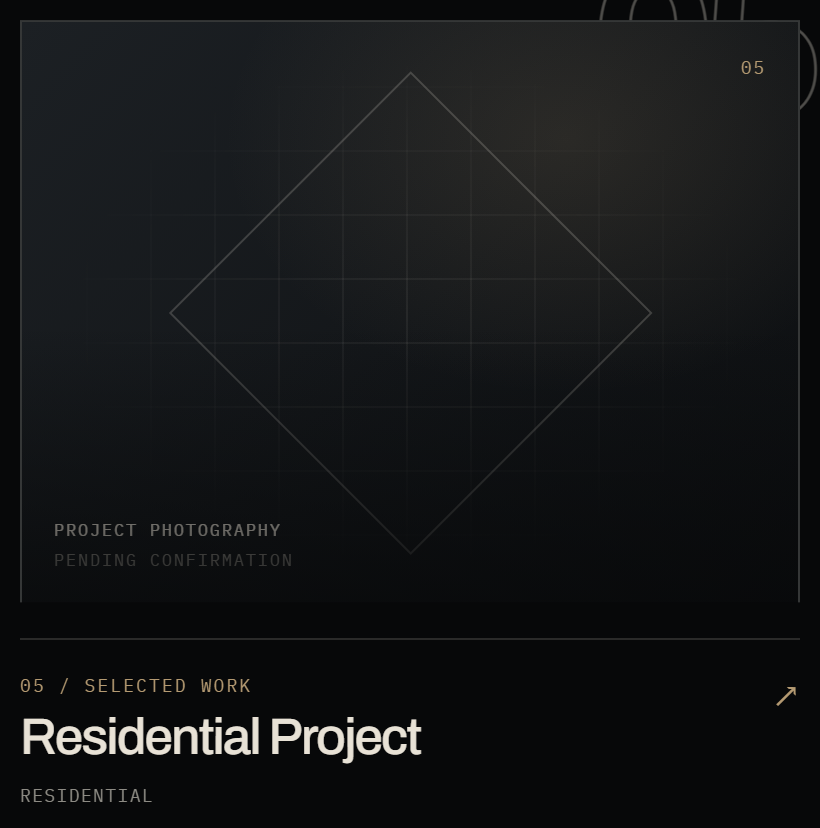
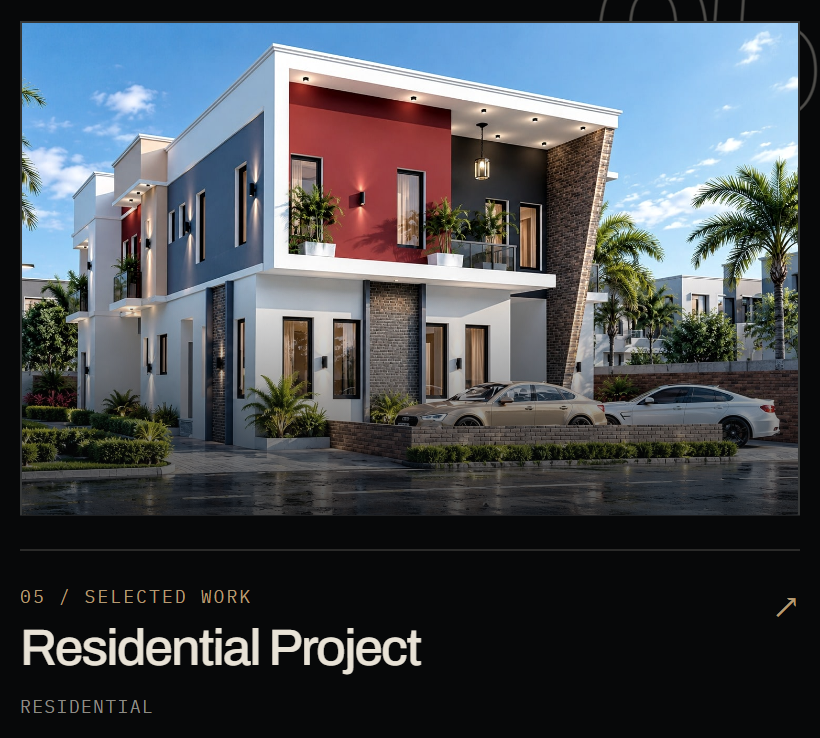
chore: preserve approved website state before CMS integration

diff --git a/about.html b/about.html
@@ -11,6 +11,10 @@
     <link rel="preconnect" href="https://fonts.gstatic.com" crossorigin>
     <link href="https://fonts.googleapis.com/css2?family=Archivo:wght@400;500;600;700&amp;family=Cormorant+Garamond:ital,wght@0,400;0,500;1,400;1,500&amp;family=IBM+Plex+Mono:wght@400;500&amp;family=Inter:wght@300;400;500&amp;display=swap" rel="stylesheet">
 
+    <link rel="icon" href="images/favicon/favicon.ico" sizes="any">
+    <link rel="icon" type="image/png" sizes="32x32" href="images/favicon/favicon-32x32.png">
+    <link rel="icon" type="image/png" sizes="16x16" href="images/favicon/favicon-16x16.png">
+    <link rel="apple-touch-icon" sizes="180x180" href="images/favicon/apple-touch-icon.png">
     <link rel="stylesheet" href="css/style.css">
 </head>
 <body>
@@ -58,13 +62,12 @@
         <section class="about-story section" aria-labelledby="about-story-heading">
             <div class="container about-story-grid">
                 <div class="about-media" data-reveal>
-                    <div class="media-placeholder" aria-hidden="true">
-                        <span class="media-placeholder-index">02</span>
-                        <div class="media-placeholder-label">
-                            <span class="media-placeholder-kicker">Studio photography</span>
-                            <span>To be confirmed</span>
-                        </div>
-                    </div>
+                    <img src="images/approach-workstation.jpg"
+                         alt="Architectural workstation with a large monitor showing a 3D building model and technical floor plans"
+                         width="1600"
+                         height="2000"
+                         loading="lazy"
+                         decoding="async">
                 </div>
                 <div class="about-copy" data-reveal-group>
                     <div data-reveal>

diff --git a/contact.html b/contact.html
@@ -11,6 +11,10 @@
     <link rel="preconnect" href="https://fonts.gstatic.com" crossorigin>
     <link href="https://fonts.googleapis.com/css2?family=Archivo:wght@400;500;600;700&amp;family=Cormorant+Garamond:ital,wght@0,400;0,500;1,400;1,500&amp;family=IBM+Plex+Mono:wght@400;500&amp;family=Inter:wght@300;400;500&amp;display=swap" rel="stylesheet">
 
+    <link rel="icon" href="images/favicon/favicon.ico" sizes="any">
+    <link rel="icon" type="image/png" sizes="32x32" href="images/favicon/favicon-32x32.png">
+    <link rel="icon" type="image/png" sizes="16x16" href="images/favicon/favicon-16x16.png">
+    <link rel="apple-touch-icon" sizes="180x180" href="images/favicon/apple-touch-icon.png">
     <link rel="stylesheet" href="css/style.css">
 </head>
 <body>

diff --git a/index.html b/index.html
@@ -11,6 +11,10 @@
     <link rel="preconnect" href="https://fonts.gstatic.com" crossorigin>
     <link href="https://fonts.googleapis.com/css2?family=Archivo:wght@400;500;600;700&amp;family=Cormorant+Garamond:ital,wght@0,400;0,500;1,400;1,500&amp;family=IBM+Plex+Mono:wght@400;500&amp;family=Inter:wght@300;400;500&amp;display=swap" rel="stylesheet">
 
+    <link rel="icon" href="images/favicon/favicon.ico" sizes="any">
+    <link rel="icon" type="image/png" sizes="32x32" href="images/favicon/favicon-32x32.png">
+    <link rel="icon" type="image/png" sizes="16x16" href="images/favicon/favicon-16x16.png">
+    <link rel="apple-touch-icon" sizes="180x180" href="images/favicon/apple-touch-icon.png">
     <link rel="stylesheet" href="css/style.css">
 </head>
 <body>

diff --git a/project.html b/project.html
@@ -11,6 +11,10 @@
     <link rel="preconnect" href="https://fonts.gstatic.com" crossorigin>
     <link href="https://fonts.googleapis.com/css2?family=Archivo:wght@400;500;600;700&amp;family=Cormorant+Garamond:ital,wght@0,400;0,500;1,400;1,500&amp;family=IBM+Plex+Mono:wght@400;500&amp;family=Inter:wght@300;400;500&amp;display=swap" rel="stylesheet">
 
+    <link rel="icon" href="images/favicon/favicon.ico" sizes="any">
+    <link rel="icon" type="image/png" sizes="32x32" href="images/favicon/favicon-32x32.png">
+    <link rel="icon" type="image/png" sizes="16x16" href="images/favicon/favicon-16x16.png">
+    <link rel="apple-touch-icon" sizes="180x180" href="images/favicon/apple-touch-icon.png">
     <link rel="stylesheet" href="css/style.css">
 </head>
 <body>

diff --git a/projects.html b/projects.html
@@ -11,6 +11,10 @@
     <link rel="preconnect" href="https://fonts.gstatic.com" crossorigin>
     <link href="https://fonts.googleapis.com/css2?family=Archivo:wght@400;500;600;700&amp;family=Cormorant+Garamond:ital,wght@0,400;0,500;1,400;1,500&amp;family=IBM+Plex+Mono:wght@400;500&amp;family=Inter:wght@300;400;500&amp;display=swap" rel="stylesheet">
 
+    <link rel="icon" href="images/favicon/favicon.ico" sizes="any">
+    <link rel="icon" type="image/png" sizes="32x32" href="images/favicon/favicon-32x32.png">
+    <link rel="icon" type="image/png" sizes="16x16" href="images/favicon/favicon-16x16.png">
+    <link rel="apple-touch-icon" sizes="180x180" href="images/favicon/apple-touch-icon.png">
     <link rel="stylesheet" href="css/style.css">
 </head>
 <body>

diff --git a/css/style.css b/css/style.css
@@ -1814,6 +1814,14 @@ p {
   background: var(--charcoal);
 }
 
+.about-media img {
+  width: 100%;
+  height: 100%;
+  object-fit: cover;
+  object-position: center;
+  filter: saturate(0.9) contrast(1.03);
+}
+
 .about-copy h2 {
   max-width: 13ch;
   margin-top: 1.5rem;

diff --git a/screenshots/REPORT.md b/screenshots/REPORT.md
@@ -4,6 +4,11 @@ Date: 2026-11-01
 
 ## Changes
 
+- Replaced the Approach section placeholder in `about.html` with a graded architectural workstation photograph.
+  - Generated `images/approach-workstation.jpg` at 1600×2000 (4:5) from a licensed Pexels photograph.
+  - Cropped to focus on the monitor, keyboard and mouse; no people are shown.
+  - Added warm, charcoal-neutral grading and `object-fit: cover` so it fills the existing container without distortion.
+- Added a favicon generated from the geometric logo in `images/favicon/` and linked it in all five HTML pages.
 - Fixed the 320px cream-section heading overflow in `css/style.css`.
   - `.home-intro-lead` is now allowed to shrink (`min-width: 0`).
   - At `max-width: 560px`, the intro heading now uses `clamp(2.1rem, 11vw, 5rem)`.
@@ -11,11 +16,11 @@ Date: 2026-11-01
 - Added per-image aspect ratios to project cards.
   - `js/main.js` now adds `--media-ratio` from `projectImageDimensions`.
   - At `max-width: 780px`, project-card media uses `aspect-ratio: var(--media-ratio, 4 / 3)` instead of forcing `4 / 3` cropping.
-- Added the two exterior images for `Five-Bedroom Duplex with Two-Bedroom Units` (`id: 4`).
-  - `Fifth design.jpeg` → `images/projects/five-bedroom-duplex-two-bedroom-units-01.jpg` (1481×941)
-  - `Fifth design ii.jpeg` → `images/projects/five-bedroom-duplex-two-bedroom-units-02.jpg` (1381×941)
-  - Updated `js/data.js` cover, gallery, and dimensions.
-  - Both images classify strongly as modern duplex exterior renders and are highly similar to each other.
+- Added the requested two-image sets by project order.
+  - Project 4, `Five-Bedroom Duplex with Two-Bedroom Units` (`id: 4`): `Fourth design iv.jpeg` and `Fourth design v.jpeg`.
+  - Project 5, `Residential Project` (`id: 3`): `Fifth design.jpeg` and `Fifth design ii.jpeg`.
+  - Generated `five-bedroom-duplex-two-bedroom-units-01/02.jpg` (1323×1189, 756×1008) and `residential-project-01/02.jpg` (1481×941, 1381×941).
+  - Updated `js/data.js` covers, galleries, and dimensions.
 
 ## Verification
 
@@ -24,12 +29,12 @@ Tested at 320, 360, 375, 390, and 430px on `index.html`, `projects.html`, `proje
 - No horizontal page overflow at any tested width.
 - Cream heading fits its grid column at every width; at 320px it ends at 300px.
 - Project cards preserve their natural image ratios on phones; no forced 4:3 crop.
-- Five project cards render in order:
+- All five project cards now have images:
   1. Mixed-Use Development
   2. Hotel
   3. Three-Bedroom Duplex
   4. Five-Bedroom Duplex with Two-Bedroom Units
-  5. Residential Project (placeholder — no source assets supplied)
+  5. Residential Project
 - Hamburger menu:
   - Opens and closes.
   - Updates `aria-expanded`.
@@ -41,9 +46,9 @@ Tested at 320, 360, 375, 390, and 430px on `index.html`, `projects.html`, `proje
 
 ## Image Assignment Note
 
-The `Fifth design` pair was found after the initial Fourth Design pass and is the correct two-image set for project 4: `Fifth design.jpeg` is the cover and `Fifth design ii.jpeg` is the second gallery image. Both are landscape exterior renders, so the mobile cards and gallery stay compact. The earlier `Fourth design iv.jpeg` / `v.jpeg` candidates are not used.
+The design-file numbering follows display order: `Fourth Design` belongs to the fourth project (`Five-Bedroom Duplex with Two-Bedroom Units`), and `Fifth design` belongs to the fifth project (`Residential Project`). Both Fifth design files classify strongly as modern duplex exterior renders.
 
-The fifth visible card, `Residential Project` (`id: 3`), remains a placeholder because no matching source images, PDF pages, floor plans, interiors, or moodboards were found in `images/`.
+`Residential Project` still has `expectedImageCount: 6` because its description references exterior views, floor plans, interior studies, and material moodboards. Only the two Fifth design exterior renders were present, so the gallery currently shows two images; the other four asset types remain unsupplied.
 
 ## Screenshots
 
@@ -54,4 +59,5 @@ The fifth visible card, `Residential Project` (`id: 3`), remains a placeholder b
 - Project 4 detail: `project-4-320-hero.png`, `project-4-375-hero.png`, `project-4-430-hero.png` and matching `-gallery.png` files
 - Project 5 detail: `project-5-320-hero.png`, `project-5-375-hero.png`, `project-5-430-hero.png` and matching `-gallery.png` files
 - Open mobile menu: `nav-open-320.png`
+- Approach section image: `about-approach-1440.png`, `about-approach-390.png`
 - Raw audit data: `audit.json`
